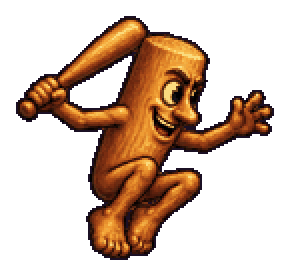
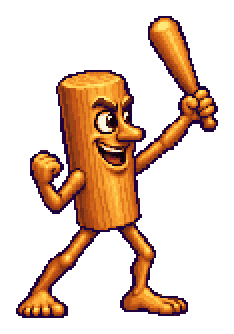
docs(arte): documenta pipeline e atualiza galeria do jogo

diff --git a/docs/tecnico/03-renderizacao-e-sprites.md b/docs/tecnico/03-renderizacao-e-sprites.md
@@ -10,7 +10,17 @@
 - O HUD da luta (barras, retratos, cronômetro, barras de especial, combo e avisos) fica em [`ui/hud.js`](../../src/game/ui/hud.js), e os retratos recortados da cabeça do sprite (usados no HUD, na pausa e nas cutscenes) em [`ui/portrait.js`](../../src/game/ui/portrait.js).
 - Elementos de interface no estilo arcade (placas inclinadas, molduras, brilhos de estrela, texto com franja cromática, glitch, cortinas) ficam em [`ui/arcade.js`](../../src/game/ui/arcade.js).
 
-## Arte original
+## Arte e animação atual
+
+Os nove personagens usam **19 quadros próprios** por personagem: idle; caminhada em quatro fases; soco e chute com preparação, impacto e recuperação; defesa; pulo; agachamento; preparação e liberação do especial; reação de acerto; caído; vitória. Os quadros individuais e as referências ficam em `assets/sprite-art/<id>/`; os prompts estão em [../arte/prompts-sprites.md](../arte/prompts-sprites.md).
+
+`npm run sprites` usa `tools/process-sprite-art.js`: normaliza a escala a partir do atlas anterior, aplica alfa binário e uma paleta compartilhada de 64 cores e monta células de 256×208 com pivô fixo nos pés. A folha de revisão usa grade 5×4; o jogo lê o atlas horizontal e os nomes em `atlas-animations.js`. Os primeiros 12 índices continuam compatíveis com a organização anterior.
+
+No motor, os quadros de caminhada seguem contato → compressão → passagem → subida. Socos e chutes seguem a fase real do golpe, incluindo a recuperação. O especial troca de preparação para liberação no quadro em que cada personagem dispara ou inicia o golpe. Ataques aéreos e baixos ainda derivam dos novos quadros de ataque com transformações; quedas usam a reação de acerto com rotação. O agachamento neutro é um desenho próprio.
+
+Os oito tipos de projéteis/efeitos usam três quadros cada: onda, bomba, explosão, banana, relógio, anel, meteoro e terremoto. `npm run sprites:projectiles` empacota esses arquivos; o carregamento ocorre junto aos personagens. Caso uma imagem falhe, o desenho procedural continua disponível. A troca é visual: trajetórias, dano, velocidades e quadros de disparo permanecem definidos pelo combate.
+
+## Arte anterior (pipeline legado)
 
 Cada personagem tem uma folha em `assets/sprite-sheets/<id>.png`: PNG transparente de 1536×1024 com uma grade 4×3 de 12 poses, virado para a direita.
 
@@ -35,7 +45,7 @@ O pipeline que transforma a folha em atlas está em [06-ferramentas-e-testes.md]
 - `alt`: paleta com os canais rotacionados, para o espelho.
 - A tela de VS pré-renderiza as poses dos dois lutadores (`warmList`) para a luta não engasgar.
 
-`hdPick(pose, frame, a)` converte a pose do jogo numa das 12 molduras **mais uma transformação**. É isso que faz 12 desenhos parecerem animação fluida:
+`hdPick(pose, frame, a)` usa os nomes de `atlas-animations.js` para os novos atlas. Sem esse mapeamento, mantém a conversão legada de 12 molduras **mais uma transformação** descrita abaixo:
 
 | Pose do jogo | Moldura | Transformação |
 |--------------|---------|---------------|

diff --git a/docs/arte/prompts-sprites.md b/docs/arte/prompts-sprites.md
@@ -1,0 +1,17 @@
+# Sprites e artefatos animados — regeneração
+
+O checkup identificou caminhada de dois desenhos, agachamento por compressão da pose parada, ataques sem recuperação própria e projéteis desenhados com primitivas. Esta atualização usa os nove personagens existentes como referência de identidade.
+
+Os prompts completos estão em [`assets/sprite-art/prompts.json`](../../assets/sprite-art/prompts.json). A ferramenta usada é `image_gen`, com fundo transparente. Cada personagem tem uma pose de referência (`reference.png`, extraída do atlas anterior), um novo `idle.png` e poses geradas a partir desse idle fixo. Não encadear referências de um quadro para outro.
+
+Cada quadro combina `style`, a descrição de `characters[id]` e a instrução de `poses[pose]`. Preservar rosto, anatomia, paleta e acessórios. Os quadros são revisados juntos antes de empacotar o atlas.
+
+Conjunto: idle; caminhada em quatro fases; soco e chute com preparação, impacto e recuperação; agachamento; defesa; pulo; preparação e liberação do especial; reação de acerto; caído; vitória.
+
+Artefatos: onda do Tralalero, bomba e explosão do Bombardiro, banana do Chimpanzini, relógio do Lirilì, anel e meteoro da Saturnita e terremoto do Patapim. Taco, katanas e acessórios permanecem nos sprites dos respectivos personagens.
+
+Os originais ficam em `assets/sprite-art/<id>/` e os arquivos consumidos pelo jogo em `public/atlases/`.
+
+Entrega de 25/10/2026: 171 quadros de personagens e 24 quadros de artefatos, integrados ao motor. A bomba solta foi removida do quadro de disparo do Bombardiro para evitar duplicação; o enquadramento do chute foi ampliado para garantir alcance mensurável. Os golpes baixos e aéreos ainda usam transformações dos novos quadros de ataque, e a queda usa rotação da reação de acerto.
+
+`npm run sprites` e `npm run sprites:projectiles` reempacotam os originais locais. `node tools/render-sprite-art.js` cria a prévia animada em `output/sprite-art/preview.html` e o inventário com SHA-256 em `docs/arte/geracao-sprites-2026-10-25.json`. Os PNGs originais de alta resolução são locais e ignorados pelo Git; atlases e folhas empacotadas são versionados.

diff --git a/docs/tecnico/06-ferramentas-e-testes.md b/docs/tecnico/06-ferramentas-e-testes.md
@@ -47,11 +47,23 @@ O jogo também foi aberto no Chromium headless (Playwright), em produção e em 
 
 ## Pipeline de sprites
 
+O pipeline atual usa quadros individuais gerados com uma referência fixa por personagem:
+
+```bash
+npm run sprites              # personagens: 19 quadros, folha 5×4 e atlas horizontal
+npm run sprites:projectiles  # oito artefatos, três quadros cada
+node tests/sprite-art.js     # fases distintas, agachamento, disparo e efeitos
+```
+
+As entradas ficam em `assets/sprite-art/`; os prompts completos e o roteiro de poses estão em [../arte/prompts-sprites.md](../arte/prompts-sprites.md). Os PNGs originais são locais, como os originais dos cenários. As folhas empacotadas, atlas e metadados são versionados.
+
+### Pipeline legado
+
 [`tools/process_sprites.py`](../../tools/process_sprites.py) transforma as folhas 4×3 em atlas:
 
 ```bash
 pip install pillow numpy scipy
-npm run sprites
+npm run sprites:legacy
 ```
 
 1. **Separa as poses pela forma, não por caixa:** alfa acima de 128, dilatação de 2 px, rotulação dos componentes conectados. Mantém as 12 partes grandes e prende os fragmentos pequenos (brilhos, linhas de movimento) à pose mais próxima. Cada pose é recortada com **a própria máscara**, então as vizinhas nunca vazam. Se não achar 12, tenta de novo com menos dilatação.

diff --git a/docs/tecnico/08-roadmap.md b/docs/tecnico/08-roadmap.md
@@ -4,7 +4,7 @@
 
 | Área | Limitação | Caminho possível |
 |------|-----------|------------------|
-| Animação | Cada personagem tem 12 poses desenhadas; a fluidez extra vem de transformações (compressão, rotação, balanço). | Folhas com mais quadros (caminhada de 4 quadros, 3 por ataque, agachado e rasteira próprios) e estender `hdPick`. |
+| Animação | Os personagens têm 19 quadros próprios, incluindo caminhada de quatro fases, ataques com três fases e agachamento. Ataques baixos/aéreos e quedas ainda usam transformações. | Acrescentar quadros específicos de rasteira, ataques aéreos e queda. |
 | Vozes | A síntese de voz depende das vozes instaladas; no celular costumam ser robóticas. | Gravar ou licenciar falas e tocá-las de `public/audio/`. |
 | Áudio dos memes | Os clipes originais do TikTok não são usados. | Tocar arquivos fornecidos no lugar da voz sintetizada. |
 | Tempo de boot | Cerca de 0,4 s para pintar os 13 cenários (já escondido pela tela de carregamento animada). | Pré-renderizar os cenários para PNG no build. |

diff --git a/README.md b/README.md
@@ -207,7 +207,7 @@ Mais detalhes em [docs/jogo/03-controles-e-comandos.md](docs/jogo/03-controles-e
 
 ## 🛠 Desenvolvimento
 
-> Requer **Node.js 20.9+**. O pipeline de sprites (opcional) usa Python com `pillow`, `numpy` e `scipy`.
+> Requer **Node.js 20.9+**. O pipeline atual de sprites usa Node.js; somente o pipeline legado requer Python com `pillow`, `numpy` e `scipy`.
 
 | Comando | O que faz |
 |---------|-----------|
@@ -218,7 +218,8 @@ Mais detalhes em [docs/jogo/03-controles-e-comandos.md](docs/jogo/03-controles-e
 | `npm test` | Campanha completa, 24 lutas CPU × CPU, textos e snapshots visuais, tudo headless |
 | `npm run test:snapshot:update` | Aceita uma mudança visual intencional |
 | `npm run readme:art` | Regera as imagens deste README com o próprio motor |
-| `npm run sprites` | Folhas de sprite → atlas em `public/atlases/` |
+| `npm run sprites` | 19 poses por personagem → atlas em `public/atlases/` |
+| `npm run sprites:projectiles` | Empacota os oito artefatos com três fases cada |
 
 ### 🧱 Arquitetura
 
